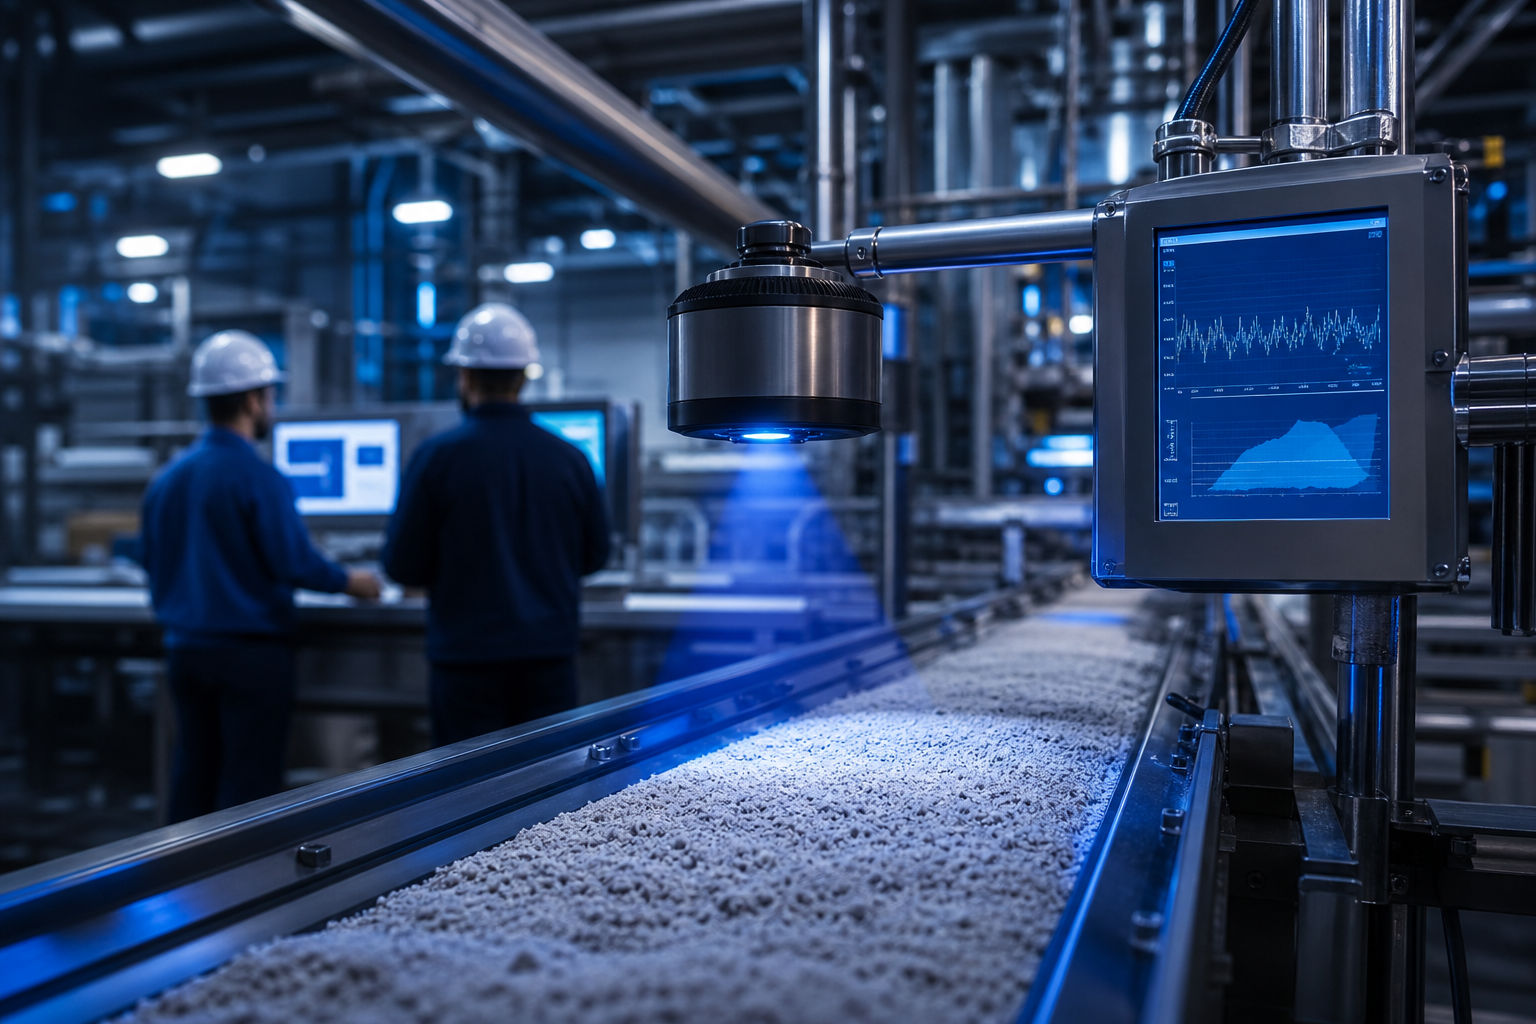
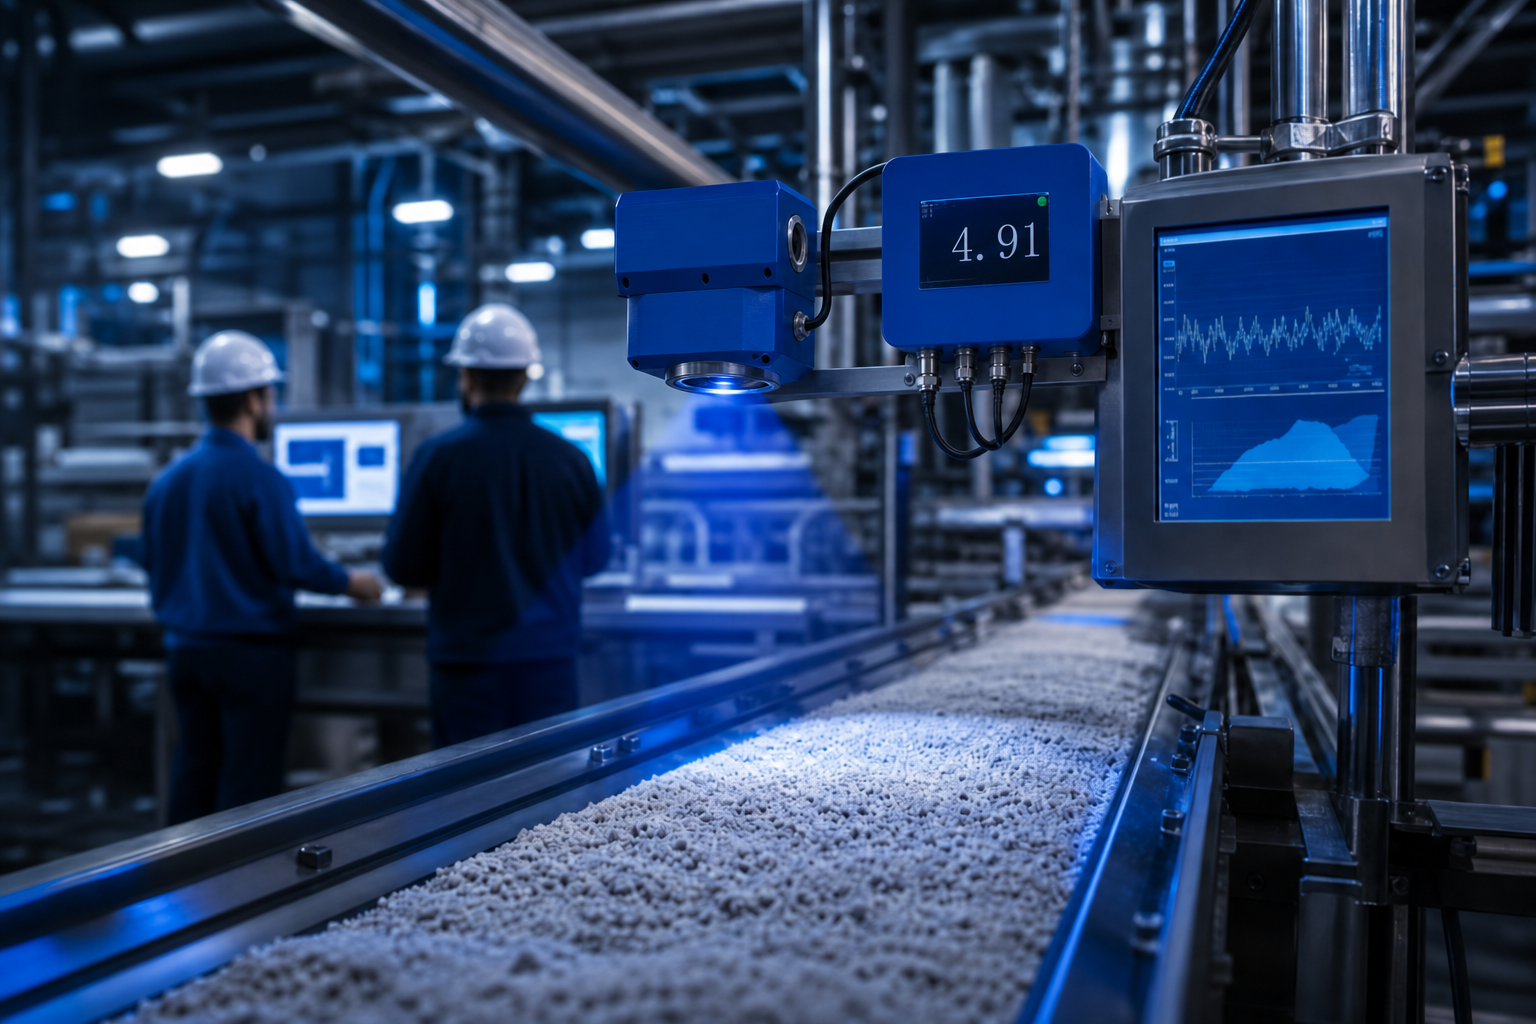
Add custom hero image and composite industry scenes with ALZRO analyzer.
Wire the blue GMS-style hero visual, replace incorrect devices in industry photos, and improve local dev/image config for Next.js 16.

diff --git a/src/lib/images.ts b/src/lib/images.ts
@@ -1,17 +1,19 @@
 const base = "/images/site";
+const v = "2"; // bump when replacing scene/product images to bust browser cache
 
 export const siteImages = {
-  productMain: `${base}/02-product-main.png`,
-  factoryApplication: `${base}/03-factory-application.png`,
-  nirBeamEffect: `${base}/04-nir-beam-effect.png`,
+  heroProduct: `${base}/hero-product-moisture-analyzer.png`,
+  productMain: `${base}/02-product-main.png?v=${v}`,
+  factoryApplication: `${base}/03-factory-application.png?v=${v}`,
+  nirBeamEffect: `${base}/04-nir-beam-effect.png?v=${v}`,
   dashboardMonitoring: `${base}/05-dashboard-monitoring.png`,
-  plasticIndustry: `${base}/06-plastic-industry.png`,
-  foodIndustry: `${base}/07-food-industry.png`,
-  chemicalIndustry: `${base}/08-chemical-industry.png`,
+  plasticIndustry: `${base}/06-plastic-industry.png?v=${v}`,
+  foodIndustry: `${base}/07-food-industry.png?v=${v}`,
+  chemicalIndustry: `${base}/08-chemical-industry.png?v=${v}`,
   aboutBackground: `${base}/09-about-background.png`,
   contactBackground: `${base}/10-contact-background.png`,
   blogBanner: `${base}/11-blog-banner.png`,
-  aiIndustrial: `${base}/12-ai-industrial-concept.png`,
+  aiIndustrial: `${base}/12-ai-industrial-concept.png?v=${v}`,
 } as const;
 
 export const productImages: Record<string, string> = {

diff --git a/src/app/products/[slug]/page.tsx b/src/app/products/[slug]/page.tsx
@@ -182,15 +182,16 @@ export default async function ProductPage({ params }: Props) {
             </p>
             <SiteImage
               src={siteImages.nirBeamEffect}
-              alt="Typical NIR moisture analyzer installation"
-              variant="process"
+              alt="ALZRO online NIR moisture analyzer installation above conveyor belt"
+              variant="industry"
               className="aspect-[16/10] w-full mb-4"
             />
             <p className="text-sm text-muted leading-relaxed">
-              Mount above or inline with your process line. Connect via standard
-              industrial protocols to your PLC or SCADA system. ALZRO provides
-              complete installation support including mounting hardware,
-              calibration, and commissioning.
+              Mount the sensor head above the process line with the circular NIR
+              lens facing directly downward toward the material surface. Connect
+              the display unit and link to your PLC or SCADA via standard industrial
+              protocols. ALZRO provides mounting hardware, calibration, and
+              commissioning support.
             </p>
           </div>
         </div>

diff --git a/src/components/home/Hero.tsx b/src/components/home/Hero.tsx
@@ -3,7 +3,8 @@
 import { motion } from "framer-motion";
 import { ArrowRight, CheckCircle2 } from "lucide-react";
 import { Button } from "@/components/ui/Button";
-import { IndustrialImage } from "@/components/ui/IndustrialImage";
+import { SiteImage } from "@/components/ui/SiteImage";
+import { siteImages } from "@/lib/images";
 
 const keyPoints = [
   "Continuous online monitoring",
@@ -67,9 +68,11 @@ export function Hero() {
             animate={{ opacity: 1, scale: 1 }}
             transition={{ duration: 0.7, delay: 0.2 }}
           >
-            <IndustrialImage
+            <SiteImage
+              src={siteImages.heroProduct}
+              alt="ALZRO online NIR moisture analyzer measuring granular material on a conveyor"
               variant="hero"
-              label="Production Line Monitoring"
+              priority
               className="aspect-[4/3] w-full shadow-2xl shadow-black/30"
             />
           </motion.div>

diff --git a/next.config.ts b/next.config.ts
@@ -2,8 +2,28 @@ import type { NextConfig } from "next";
 import path from "path";
 
 const nextConfig: NextConfig = {
+  images: {
+    localPatterns: [
+      {
+        pathname: "/images/site/**",
+      },
+    ],
+  },
   turbopack: {
     root: path.join(__dirname),
+  },
+  webpack: (config, { dev }) => {
+    if (dev) {
+      config.watchOptions = {
+        ...config.watchOptions,
+        ignored: [
+          "**/node_modules/**",
+          "**/.git/**",
+          "**/design-drafts/**",
+        ],
+      };
+    }
+    return config;
   },
 };
 

diff --git a/src/app/technology/page.tsx b/src/app/technology/page.tsx
@@ -88,8 +88,8 @@ export default function TechnologyPage() {
         <div className="grid gap-12 lg:grid-cols-2 items-center mb-20">
           <SiteImage
             src={siteImages.nirBeamEffect}
-            alt="NIR scanning technology on industrial conveyor"
-            variant="technology"
+            alt="ALZRO NIR moisture analyzer mounted above conveyor — lens facing downward toward material"
+            variant="industry"
             className="aspect-[16/10] w-full shadow-lg"
           />
           <div>

diff --git a/src/components/home/TechnologySection.tsx b/src/components/home/TechnologySection.tsx
@@ -67,8 +67,8 @@ export function TechnologySection() {
         <FadeIn className="mb-12">
           <SiteImage
             src={siteImages.aiIndustrial}
-            alt="AI-integrated industrial moisture analysis in smart factory"
-            variant="technology"
+            alt="ALZRO online NIR moisture analyzer in smart factory with AI process monitoring"
+            variant="industry"
             className="aspect-[21/9] w-full max-h-80"
           />
         </FadeIn>

diff --git a/src/app/industries/[slug]/page.tsx b/src/app/industries/[slug]/page.tsx
@@ -102,7 +102,7 @@ export default async function IndustryPage({ params }: Props) {
             </div>
             <SiteImage
               src={industry.image}
-              alt={industry.name}
+              alt={`ALZRO online NIR moisture analyzer — ${industry.name}`}
               variant="industry"
               className="aspect-[4/3] w-full shadow-2xl"
               priority

diff --git a/src/app/industries/page.tsx b/src/app/industries/page.tsx
@@ -35,7 +35,7 @@ export default function IndustriesPage() {
             >
               <SiteImage
                 src={industry.image}
-                alt={industry.name}
+                alt={`ALZRO online NIR moisture analyzer — ${industry.name}`}
                 variant="industry"
                 className="aspect-[16/10] md:aspect-auto md:h-full w-full"
               />

diff --git a/src/components/home/IndustrySolutions.tsx b/src/components/home/IndustrySolutions.tsx
@@ -27,7 +27,7 @@ export function IndustrySolutions() {
             >
               <SiteImage
                 src={industry.image}
-                alt={industry.name}
+                alt={`ALZRO online NIR moisture analyzer — ${industry.name}`}
                 variant="industry"
                 className="aspect-[16/10] w-full"
               />
